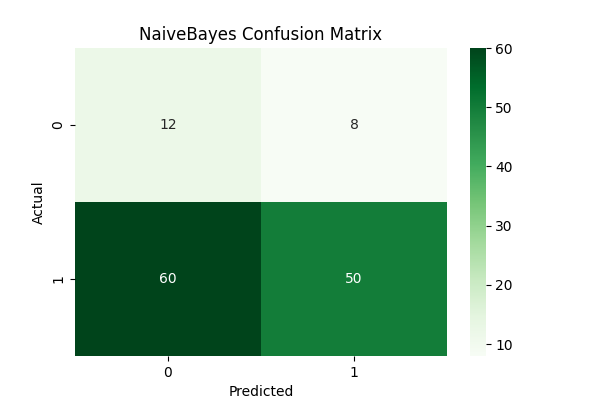
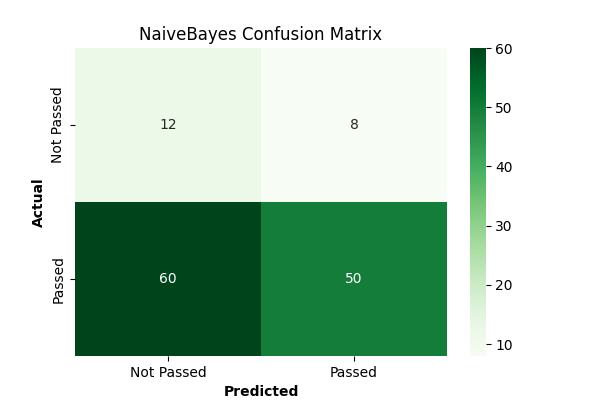
updated confused plot and doubled checked if the stratify thing is working

diff --git a/src/utils.py b/src/utils.py
@@ -10,10 +10,13 @@ def ensure_dir(path):
 def log_confusion_matrix(y_true, y_pred, model_name):
     ensure_dir("plots")
     cm = confusion_matrix(y_true, y_pred)
+
+    labels = ["Not Passed", "Passed"]
+
     plt.figure(figsize=(6, 4))
-    sns.heatmap(cm, annot=True, fmt='d', cmap='Greens')
+    sns.heatmap(cm, annot=True, fmt='d', cmap='Greens', xticklabels=labels, yticklabels=labels)
     plt.title(f"{model_name} Confusion Matrix")
-    plt.xlabel("Predicted"); plt.ylabel("Actual")
+    plt.xlabel("Predicted", fontweight="bold"); plt.ylabel("Actual", fontweight="bold")
     path = f"plots/{model_name}_confusion.png"
     plt.savefig(path); plt.close()
     mlflow.log_artifact(path)
